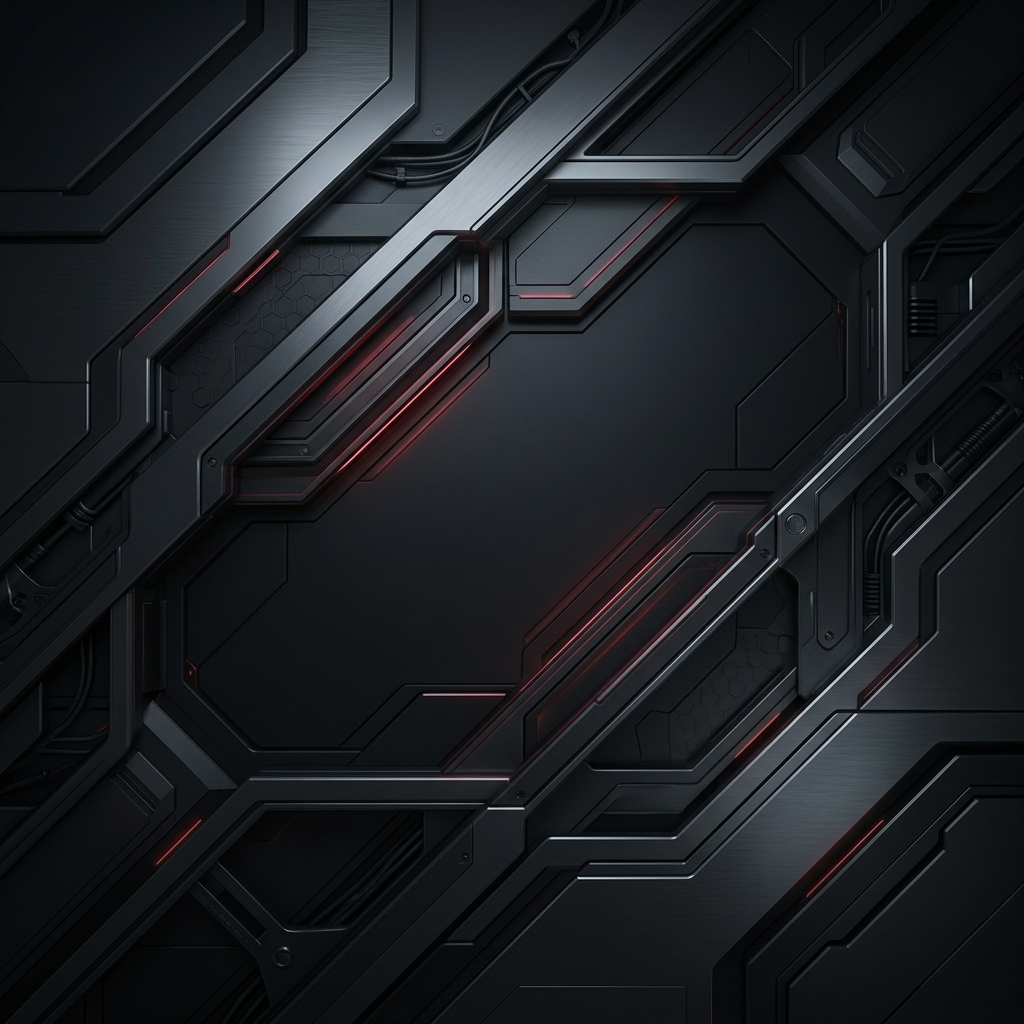
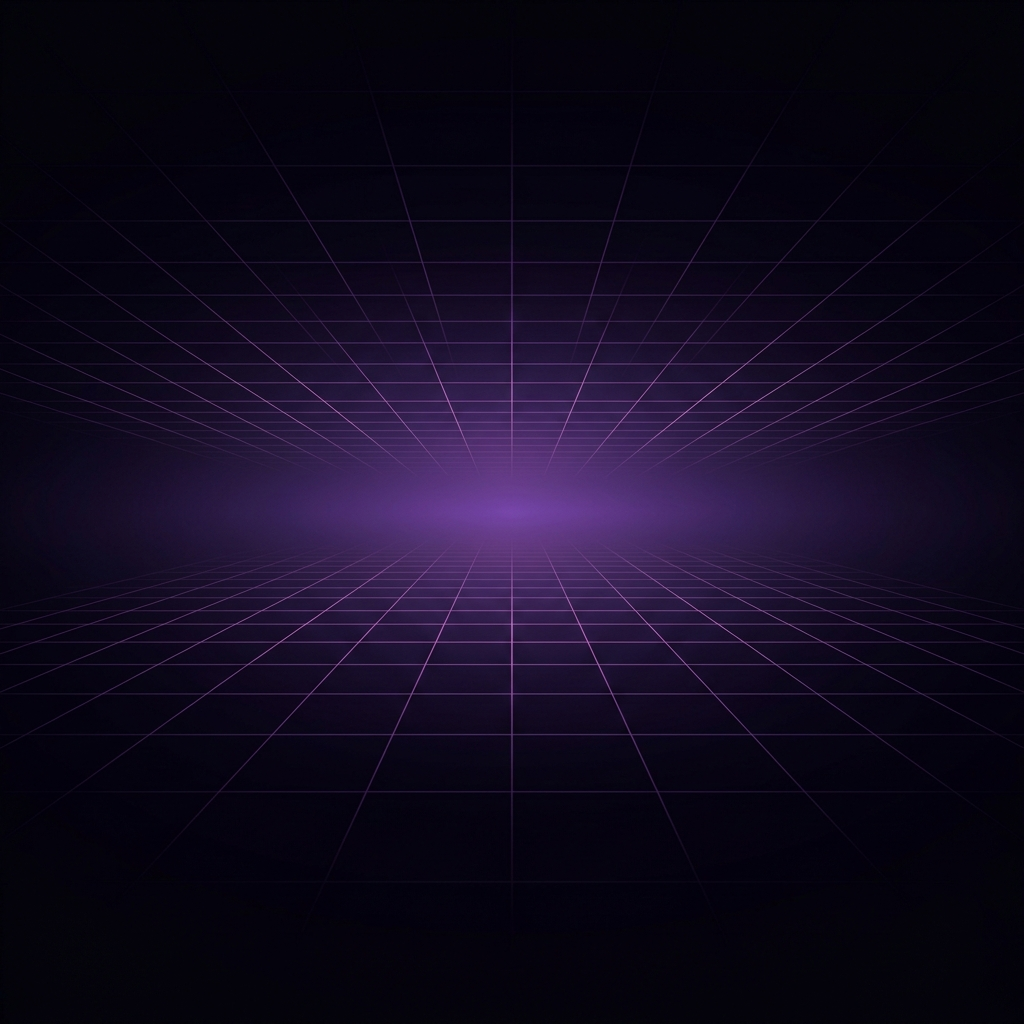
Fix: Replace MK red theme with Nitro Cyberpunk Purple/Pink + new matching background

diff --git a/src/ui.py b/src/ui.py
@@ -25,48 +25,22 @@ class Ui_MainWindow(object):
         icon = QIcon()
         icon.addFile(resource_path(r"assets\icons\logo.ico"), QSize(), QIcon.Normal, QIcon.Off)
         MainWindow.setWindowIcon(icon)
-        MainWindow.setStyleSheet(u"QMenu::item { background-color: rgb(85, 85, 85); }\n"
-"                QComboBox::drop-down {\n"
-"                border-image: none;\n"
-"                }\n"
-"                QComboBox {\n"
-"                background-color: rgba(20, 20, 20, 0.8);\n"
-"                border: 1px solid #d32f2f;\n"
-"                border-radius: 5px;\n"
-"                text-align: center;\n"
-"                color: #ffffff;\n"
-"                font-weight: bold;\n"
-"                padding-left: 15px;\n"
-"                padding-top: -5px;\n"
-"                }\n"
-"\n"
-"                QPushButton {\n"
-"                background-color: rgba(20, 20, 20, 0.7);\n"
-"                border: 2px solid #555555;\n"
-"                border-radius: 5px;\n"
-"                color: #d32f2f;\n"
-"                font-weight: bold;\n"
-"                text-align: center;\n"
-"                padding: 5px;\n"
-"                }\n"
-"                QPushButton:hover {\n"
-"                background-color: rgba(211, 47, 47, 0.2);\n"
-"                border: 2px solid #ff5252;\n"
-"                color: #ff5252;\n"
-"                }\n"
-"\n"
-"                QPushButton:checked,\n"
-"                QPushButton:pressed {\n"
-"                background-color: rgba(211, 47, 47, 0.8);\n"
-"                border: 2px solid #ff1744;\n"
-"                color: #ffffff;\n"
-"                }\n"
-"\n"
-"                QPushButton:disabled {\n"
-"                color: rgb(100, 100, 100);\n"
-"                background-color: rgba(6, 6, 6, 200);\n"
-"                border: 2px solid #333333;\n"
-"                }\n")
+        MainWindow.setStyleSheet(u"""
+            QWidget { background: transparent; color: #f2e6ff; font-weight: bold; }
+            QMenu::item { background-color: #12051f; color: #f2e6ff; }
+            QMenu::item:selected { background-color: #cc00cc; }
+            QComboBox::drop-down { border-image: none; background: #9900ff; width: 22px; }
+            QComboBox { background-color: rgba(18, 5, 31, 0.9); border: 1px solid #cc00ff; border-radius: 6px;
+                        text-align: center; color: #ffffff; font-weight: bold; padding-left: 12px; }
+            QPushButton { background: qlineargradient(x1:0,y1:0,x2:1,y2:1,stop:0 rgba(70,0,110,0.85),stop:1 rgba(160,0,150,0.85));
+                          border: 2px solid #9900ff; border-radius: 7px; color: #ffffff;
+                          font-weight: bold; text-align: center; padding: 5px; }
+            QPushButton:hover { background: qlineargradient(x1:0,y1:0,x2:1,y2:1,stop:0 rgba(110,0,170,0.9),stop:1 rgba(210,0,190,0.9));
+                                border: 2px solid #ff00ff; color: #ffffff; }
+            QPushButton:checked, QPushButton:pressed { background: #cc00cc; border: 2px solid #ffffff; color: #ffffff; }
+            QPushButton:disabled { color: rgb(80, 60, 100); background-color: rgba(18,5,31,0.7); border: 2px solid #3a0050; }
+        """)
+
         self.centralwidget = QWidget(MainWindow)
         self.centralwidget.setObjectName(u"centralwidget")
         self.appbackground = QLabel(self.centralwidget)
@@ -77,7 +51,8 @@ class Ui_MainWindow(object):
         self.stackedWidget = QStackedWidget(self.centralwidget)
         self.stackedWidget.setObjectName(u"stackedWidget")
         self.stackedWidget.setGeometry(QRect(29, 80, 1081, 651))
-        self.stackedWidget.setStyleSheet(u"QStackedWidget { background-color: #f5f5f5; }")
+        self.stackedWidget.setStyleSheet(u"QStackedWidget { background-color: transparent; }")
+
         self.gfx_page = QWidget()
         self.gfx_page.setObjectName(u"gfx_page")
         self.gfx_page_background = QLabel(self.gfx_page)
